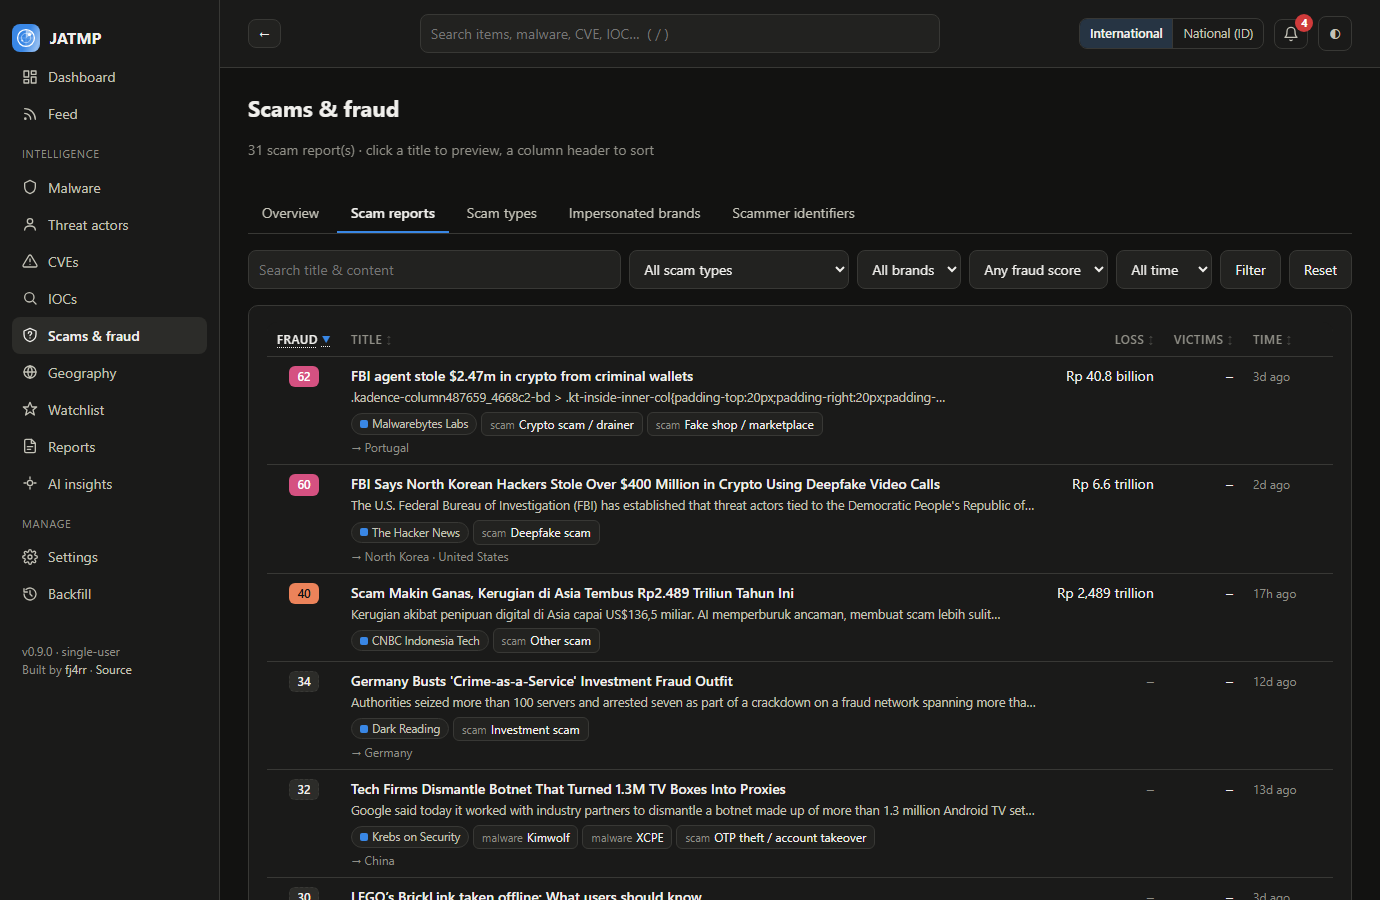
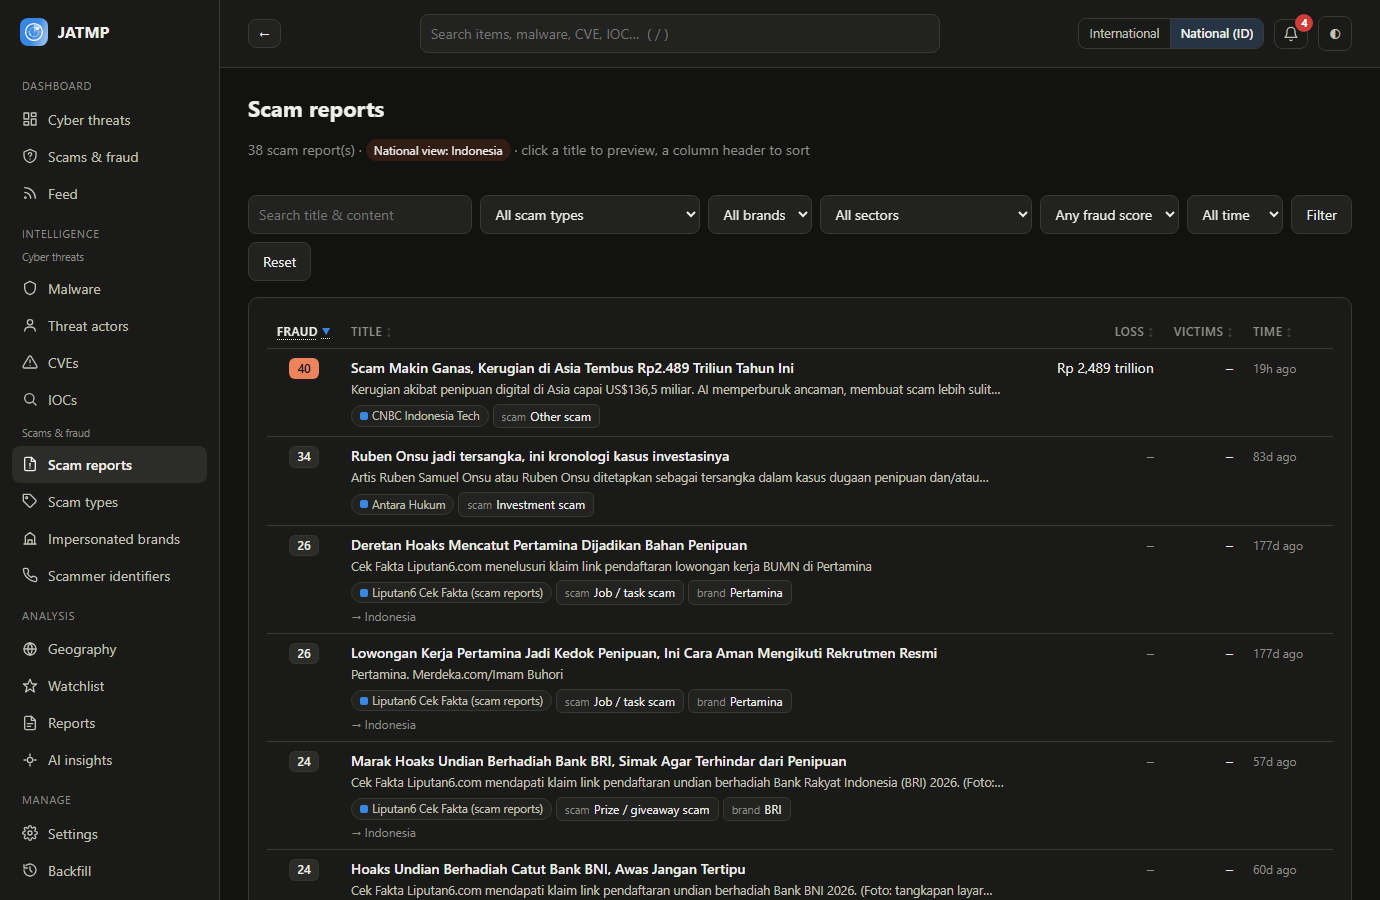
Docs as a MkDocs site, refreshed screenshots for 0.10
- mkdocs.yml (Material, JATMP colours, light/dark, search, no third-party fonts);
  the docs/ Markdown still reads on GitHub. scripts/mkdocs_hooks.py renders the
  root CHANGELOG.md as a page and rewrites GitHub-only links.
- .github/workflows/docs.yml: strict build on PRs, gh-pages deploy from main.
- requirements-docs.txt; site/ ignored; docs left out of the Docker image.
- New screenshots of both dashboards, sectors, scam reports and backfill;
  README links the docs site; development.md explains building the docs.
- Fix: geography.md linked to the renamed #dashboards anchor.

diff --git a/docs/assets/extra.css b/docs/assets/extra.css
@@ -1,0 +1,36 @@
+/* Docs site in JATMP's own colours (app/static/css/app.css): warm near-black surfaces, one blue accent. */
+:root {
+  --md-text-font-family: system-ui, -apple-system, "Segoe UI", Roboto, sans-serif;
+  --md-code-font-family: ui-monospace, "Cascadia Code", Consolas, monospace;
+}
+[data-md-color-scheme="slate"] {
+  --md-hue: 60;
+  --md-default-bg-color: #121211;
+  --md-default-fg-color: #f0efec;
+  --md-default-fg-color--light: #c3c2b7;
+  --md-default-fg-color--lighter: #8f8e86;
+  --md-primary-fg-color: #1a1a19;
+  --md-primary-bg-color: #f0efec;
+  --md-accent-fg-color: #5a9ced;
+  --md-typeset-a-color: #5a9ced;
+  --md-code-bg-color: #222220;
+  --md-footer-bg-color: #1a1a19;
+  --md-footer-bg-color--dark: #121211;
+}
+[data-md-color-scheme="default"] {
+  --md-default-bg-color: #fcfcfb;
+  --md-default-fg-color: #0b0b0b;
+  --md-primary-fg-color: #f4f4f1;
+  --md-primary-bg-color: #0b0b0b;
+  --md-accent-fg-color: #2a78d6;
+  --md-typeset-a-color: #2a78d6;
+  --md-code-bg-color: #f0efec;
+  --md-footer-bg-color: #f0efec;
+  --md-footer-fg-color: #0b0b0b;
+  --md-footer-fg-color--light: #52514e;
+  --md-footer-fg-color--lighter: #77766f;
+}
+.md-header, .md-tabs { box-shadow: 0 1px 0 rgba(128, 128, 120, .25); }
+[data-md-color-scheme="default"] .md-search__form { background: #e6e5e0; }
+.md-typeset table:not([class]) { font-size: .72rem; }
+.md-typeset img { border-radius: 8px; border: 1px solid rgba(128, 128, 120, .25); }

diff --git a/scripts/mkdocs_hooks.py b/scripts/mkdocs_hooks.py
@@ -1,0 +1,32 @@
+"""MkDocs hooks: the Markdown under docs/ stays readable on GitHub, and the same files build the docs site.
+
+* The root ``CHANGELOG.md`` becomes the site's ``changelog.md`` page (one source of truth, no copy in docs/).
+* Links that only make sense on GitHub are rewritten: ``../CHANGELOG.md`` -> ``changelog.md``,
+  ``../README.md`` -> the repository, ``docs/x.md`` (inside the changelog) -> ``x.md``.
+* The "← Documentation index" / "← Project README" back links are dropped; the site has its own navigation.
+"""
+from __future__ import annotations
+
+import re
+from pathlib import Path
+
+from mkdocs.structure.files import File
+
+ROOT = Path(__file__).resolve().parent.parent
+BACK_LINK = re.compile(r"^\[← [^\]]*\]\([^)]*\)\s*\n+", re.M)
+
+
+def on_files(files, config):
+    text = (ROOT / "CHANGELOG.md").read_text(encoding="utf-8")
+    files.append(File.generated(config, "changelog.md", content=text))
+    return files
+
+
+def on_page_markdown(markdown: str, page, config, files) -> str:
+    repo = (config.get("repo_url") or "").rstrip("/")
+    markdown = BACK_LINK.sub("", markdown)
+    markdown = markdown.replace("](../CHANGELOG.md", "](changelog.md")
+    markdown = markdown.replace("](../README.md)", f"]({repo}#readme)" if repo else "](README.md)")
+    if page.file.src_uri == "changelog.md":
+        markdown = re.sub(r"\]\(docs/([^)]+)\)", r"](\1)", markdown)
+    return markdown

diff --git a/docs/screenshots.md b/docs/screenshots.md
@@ -2,17 +2,29 @@
 
 [← Documentation index](README.md)
 
-A tour of the interface as of 0.8.2 (the scam & fraud pages as of 0.9.0).
+A tour of the interface. The dashboards, scam & fraud pages and backfill page are as of 0.10, the other pages
+as of 0.8.2 (the sidebar in those shots predates the two dashboards).
 
-Dashboard: International / National (ID) switch, *Collect now* / *Enrich now* with last and next run,
-notification bell, headline ticker, threat radar with families, CVEs and actors, the globe of the top 10 target
-countries, and the KPI tiles.
+Cyber threats dashboard: the sidebar with the two dashboards and the cyber and scam pages under *Intelligence*,
+the period switch (7 days to 1 year) with the backfill note, International / National (ID) switch, *Collect now*
+/ *Enrich now* with last and next run, headline ticker, threat radar with families, CVEs and actors, the globe of
+the top 10 target countries, and the KPI tiles.
 
-![Dashboard](screenshots/dashboard.png)
+![Cyber threats dashboard](screenshots/dashboard.png)
 
-| Trending malware, CVEs (CISA KEV, CVSS, EPSS, risk-weighted priority) and threat actors side by side | Feed with the side preview: severity breakdown, entities and indicators without leaving the list |
+| Trending malware, CVEs (CISA KEV, CVSS, EPSS, risk-weighted priority) and threat actors over the chosen period | Top 5 trending over time next to the critical infrastructure sectors of the period |
 |---|---|
-| ![Dashboard widgets](screenshots/dashboard-widgets.png) | ![Feed and side preview](screenshots/feed-preview.png) |
+| ![Dashboard widgets](screenshots/dashboard-widgets.png) | ![Critical infrastructure sectors](screenshots/dashboard-sectors.png) |
+
+Scams & fraud dashboard (0.10): scam reports over time stacked by scam type, the most targeted countries, tiles
+for reports, losses, scam types, brands and scammer identifiers, then trending scam types, impersonated brands
+and the latest identifiers.
+
+![Scams & fraud dashboard](screenshots/fraud.png)
+
+| Scam reports ranked by fraud score, with losses in rupiah, scam types and brands | Feed with the side preview: severity breakdown, entities and indicators without leaving the list |
+|---|---|
+| ![Scam reports](screenshots/fraud-items.png) | ![Feed and side preview](screenshots/feed-preview.png) |
 
 | Item page: severity, STIX export, extracted entities with their verdicts | Relationship graph: the item, its entities and the other items that share them |
 |---|---|
@@ -22,10 +34,6 @@ countries, and the KPI tiles.
 |---|---|
 | ![Geography](screenshots/geography.png) | ![National view](screenshots/dashboard-national.png) |
 
-| Scams & fraud (0.9): scam reports this week, losses, impersonated brands, scam types against last week with the malware seen alongside | Scam reports ranked by fraud score, with losses in rupiah, scam types and brands |
-|---|---|
-| ![Scams & fraud](screenshots/fraud.png) | ![Scam reports](screenshots/fraud-items.png) |
-
 | Malware family page: timeline, coverage per source, Deep dive, graph, co-mentioned entities | IOC table with verdicts, hosting countries, attributed families and where each indicator was seen |
 |---|---|
 | ![Entity page](screenshots/entity.png) | ![IOCs](screenshots/iocs.png) |
@@ -34,7 +42,7 @@ countries, and the KPI tiles.
 |---|---|
 | ![Malware families](screenshots/malware.png) | ![CVEs](screenshots/cves.png) |
 
-| Historical backfill: per-source reach and method, estimates and storage statistics | AI settings: local or cloud, vendor presets and a live model list |
+| Historical backfill: *Start backfill* under the description, per-source reach and method, estimates and storage statistics | AI settings: local or cloud, vendor presets and a live model list |
 |---|---|
 | ![Backfill](screenshots/backfill.png) | ![AI settings](screenshots/settings.png) |
 

diff --git a/README.md b/README.md
@@ -13,7 +13,7 @@ International and a National (Indonesia) view.
 It runs as a single process with SQLite by default. There is no JavaScript build step and nothing is loaded from
 a CDN at runtime, so it works on an isolated network.
 
-![Dashboard](docs/screenshots/dashboard-overview.png)
+![Cyber threats dashboard](docs/screenshots/dashboard-overview.png)
 
 More in the [screenshot tour](docs/screenshots.md).
 
@@ -71,7 +71,10 @@ before exposing the port to a network. See [Getting started](docs/getting-starte
 | **Use** | [Sources](docs/sources.md) · [Using JATMP](docs/using-jatmp.md) · [Analysis](docs/analysis.md) · [Geography](docs/geography.md) · [Scams and fraud](docs/fraud.md) · [Integrations](docs/integrations.md) · [Reporting and AI](docs/reporting-and-ai.md) · [History and storage](docs/history-and-storage.md) |
 | **Reference** | [Security](docs/security.md) · [Development and architecture](docs/development.md) · [Changelog](CHANGELOG.md) |
 
-The full index is in [docs/](docs/README.md).
+The same pages are published as a searchable site at
+**[fj4rr.github.io/just-another-threat-monitoring-platform](https://fj4rr.github.io/just-another-threat-monitoring-platform/)**
+(built with MkDocs from [docs/](docs/README.md); `pip install -r requirements-docs.txt` and `mkdocs serve` to read
+them locally).
 
 ## Credits
 

diff --git a/CHANGELOG.md b/CHANGELOG.md
@@ -39,6 +39,10 @@ All notable changes to JATMP. Upgrade steps per version are in [docs/upgrading.m
 - Scam detection: vendor listicles ("Top 10 Best … Tools [Ranked & Scored]") only count their title, so a list of
   fraud-detection products is no longer filed as a scam report. Stored items are re-analysed once after the upgrade.
 - Fix: the scam overview's brand list styled the sidebar's logo row too (shared class name).
+- **Documentation site**: the `docs/` pages also build a searchable MkDocs (Material) site with light and dark
+  themes, published to GitHub Pages from `main` (`.github/workflows/docs.yml`, strict: broken links and anchors
+  fail the build). The Markdown still reads on GitHub; see [Development](docs/development.md#documentation-site).
+  Screenshots of the dashboards, scam pages and backfill page are updated.
 - API: `/api/stats/*` take periods up to 365 days; `scope=fraud` limits trending, trending timelines, sources and
   sectors to scam reports; new `/api/stats/fraud/overview`, `/fraud/kpi_series` and `/fraud/timeline`; timelines
   return `step` (1 = daily, 7 = weekly).

diff --git a/docs/development.md b/docs/development.md
@@ -24,6 +24,25 @@ Telegram web-preview parser and paging, ScamSniffer, and the fraud analysis (sca
 identifiers and their exclusions, losses, victims, velocity, the pages and the outbound rules). GitHub Actions runs lint and tests on Python 3.11 and 3.12 and builds the Docker
 image.
 
+## Documentation site
+
+The pages under `docs/` are plain Markdown that reads on GitHub and also builds a MkDocs (Material) site, published
+to GitHub Pages by `.github/workflows/docs.yml` on every push to `main` that touches the docs.
+
+```bash
+pip install -r requirements-docs.txt
+```
+```bash
+mkdocs serve                  # http://127.0.0.1:8000 with live reload
+```
+```bash
+mkdocs build --strict         # what CI runs: broken links and anchors fail the build
+```
+
+Navigation is in `mkdocs.yml`; add a new page there and to the index in `docs/README.md`. `scripts/mkdocs_hooks.py`
+renders the root `CHANGELOG.md` as the changelog page and rewrites the links that only make sense on GitHub
+(`../CHANGELOG.md`, `../README.md`, the "← Documentation index" back links).
+
 ## Architecture
 
 ```

diff --git a/docs/geography.md b/docs/geography.md
@@ -29,7 +29,7 @@ REST API filter by `country`, `province`, `src_country` and `lang`. The map and 
 lists scroll, so every target country and province is listed.
 
 On the dashboard, a globe shows the top 10 target countries (or provinces in the National view) of the last 30
-days, built from the same outlines; see [the dashboard](using-jatmp.md#dashboard).
+days, built from the same outlines; see [the dashboard](using-jatmp.md#dashboards).
 
 ## International / National (ID)
 
